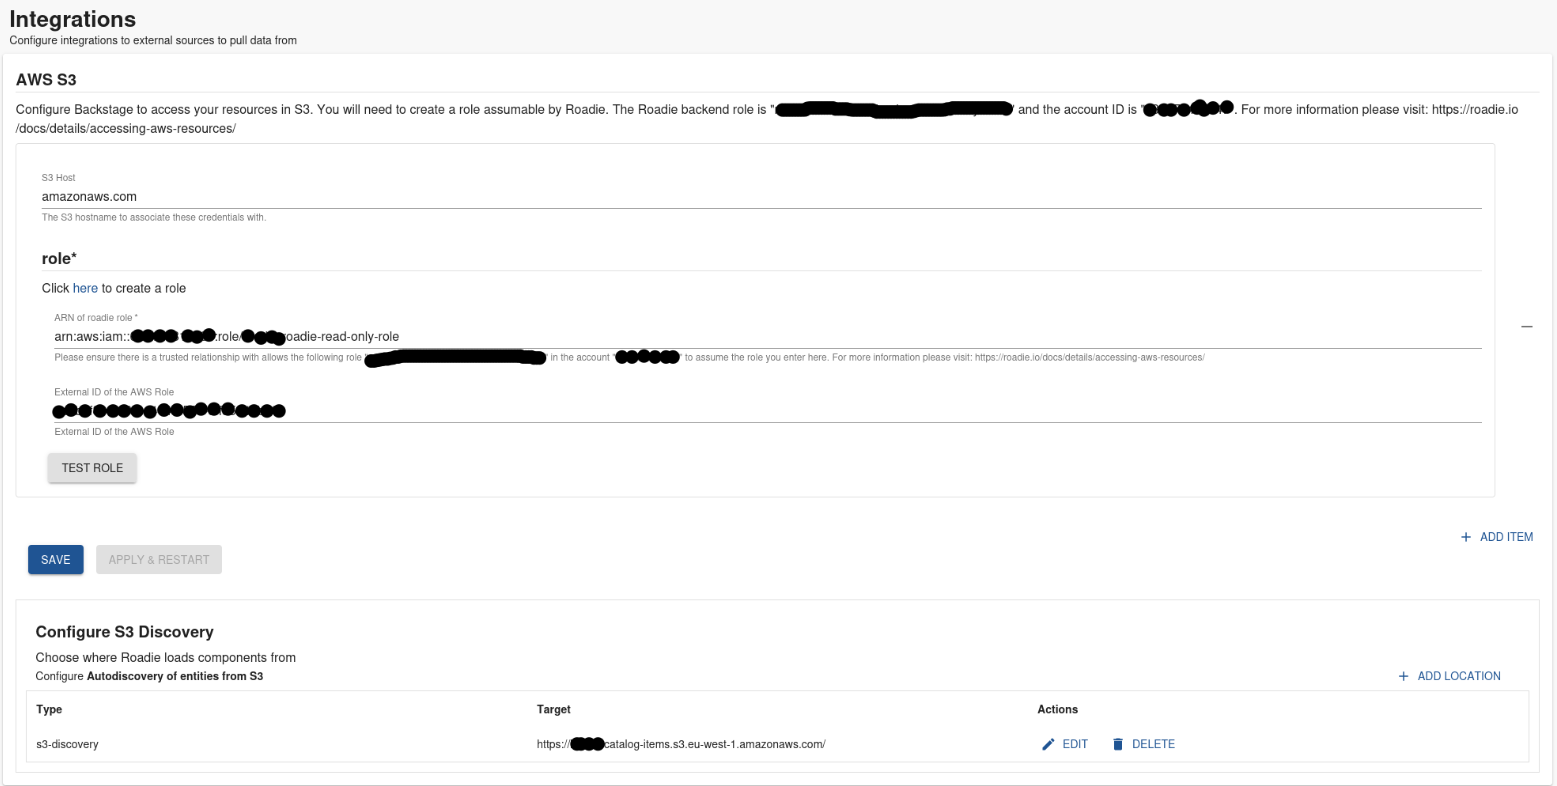
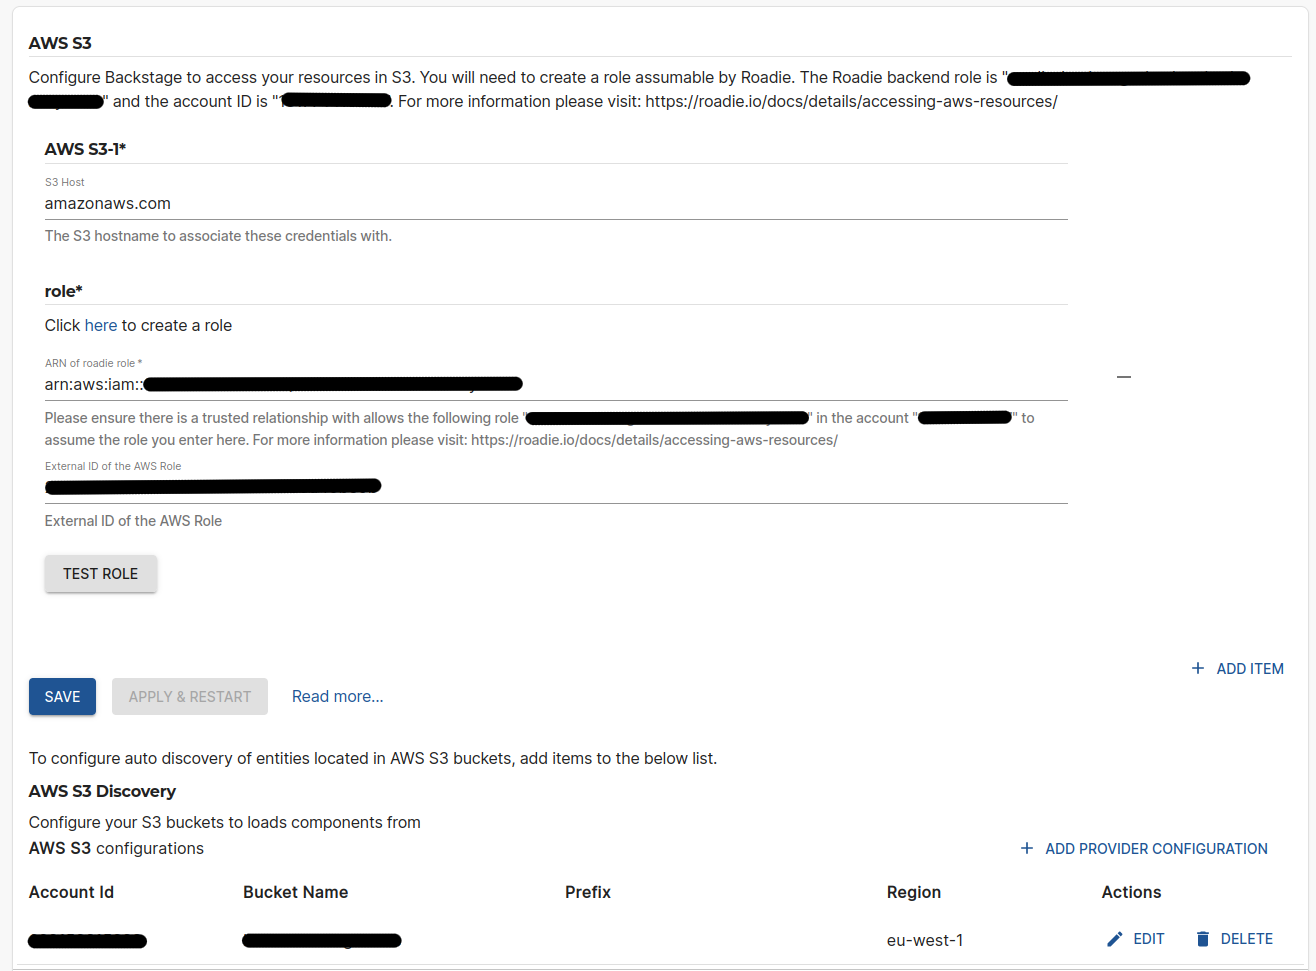
Update AWS S3 catalog manifest files discovery documentation

diff --git a/content/docs/integrations/aws-s3/index.md b/content/docs/integrations/aws-s3/index.md
@@ -24,7 +24,17 @@ Navigate to `Administration > Settings > AWS S3` and make a note of the Roadie b
 
 Follow the steps [here](/docs/details/accessing-aws-resources) to create the role. 
 
-The role needs to follow this naming convention `arn:aws:iam::*:role/<your-tenant-name>-roadie-read-only-role` where <your-tenant-name> matches your organisation's name used in the url of your Roadie instance.
+The role needs to follow this naming convention `arn:aws:iam::*:role/[your-tenant-name]-roadie-read-only-role` where `[your-tenant-name]` matches your organisation's name used in the url of your Roadie instance.
+
+
+<div role="alert">
+  <div class="docs-cta__tip_title">Defining the correct AWS role</div>
+  <div  class="docs-cta__tip_message">
+    <p>⚠ The enforced naming convention for acceptable assumable roles dictates that the role name needs to start with text <code>[tenant-name]-roadie-</code>. If other naming conventions are used, the role assumption is blocked by security measures.
+    </p>
+  </div>
+</div>
+
 
 You'll need to attach a policy which allows access to the required S3 buckets such as `AmazonS3ReadOnlyAccess`. This policy grants roadie read access to all buckets. 
 If you do not want to grant this access you can [create your own policy](https://docs.aws.amazon.com/IAM/latest/UserGuide/access_policies_create-console.html) 
@@ -64,9 +74,21 @@ which restricts access to only certain buckets. An example minimal policy needed
 On the AWS S3 settings page `Administration > Settings > Aws S3` in Roadie click `Add Item` and enter the newly created 
 role ARN and external ID. The S3 host is only required if you're using different roles for different buckets. 
 
-After the role configuration is done, you can click the 'Test Role' button to check if integration configuration has succeeded.
+After the role configuration is done, you can click the 'Test Role' button to check if integration configuration has succeeded. You can add multiple roles and AWS accounts within this configuration.
 
 ![Role Details](./role-details.png)
 
 
+## Step 4: Configure your S3 buckets to retrieve data from
 
+After you have set up your AWS accounts and assumable role configurations so Roadie is able to reach your S3 buckets, you can configure the bucket and their paths. Within the list of AWS S3 Discovery configuration you can add the details where to retrieve catalog manifest files. 
+
+Within the configuration modal, add values to indicate the AWS account, the S3 bucket, possible path within the bucket and the AWS region to use when retrieving the information. Note that the AWS account id must match one of the roles that have been configured in the above section.  
+
+![aws-bucket-config.png](aws-bucket-config.png)
+
+
+
+## References
+
+- [Open Source documentation for AWS S3 Provider](https://backstage.io/docs/integrations/aws-s3/discovery/)
